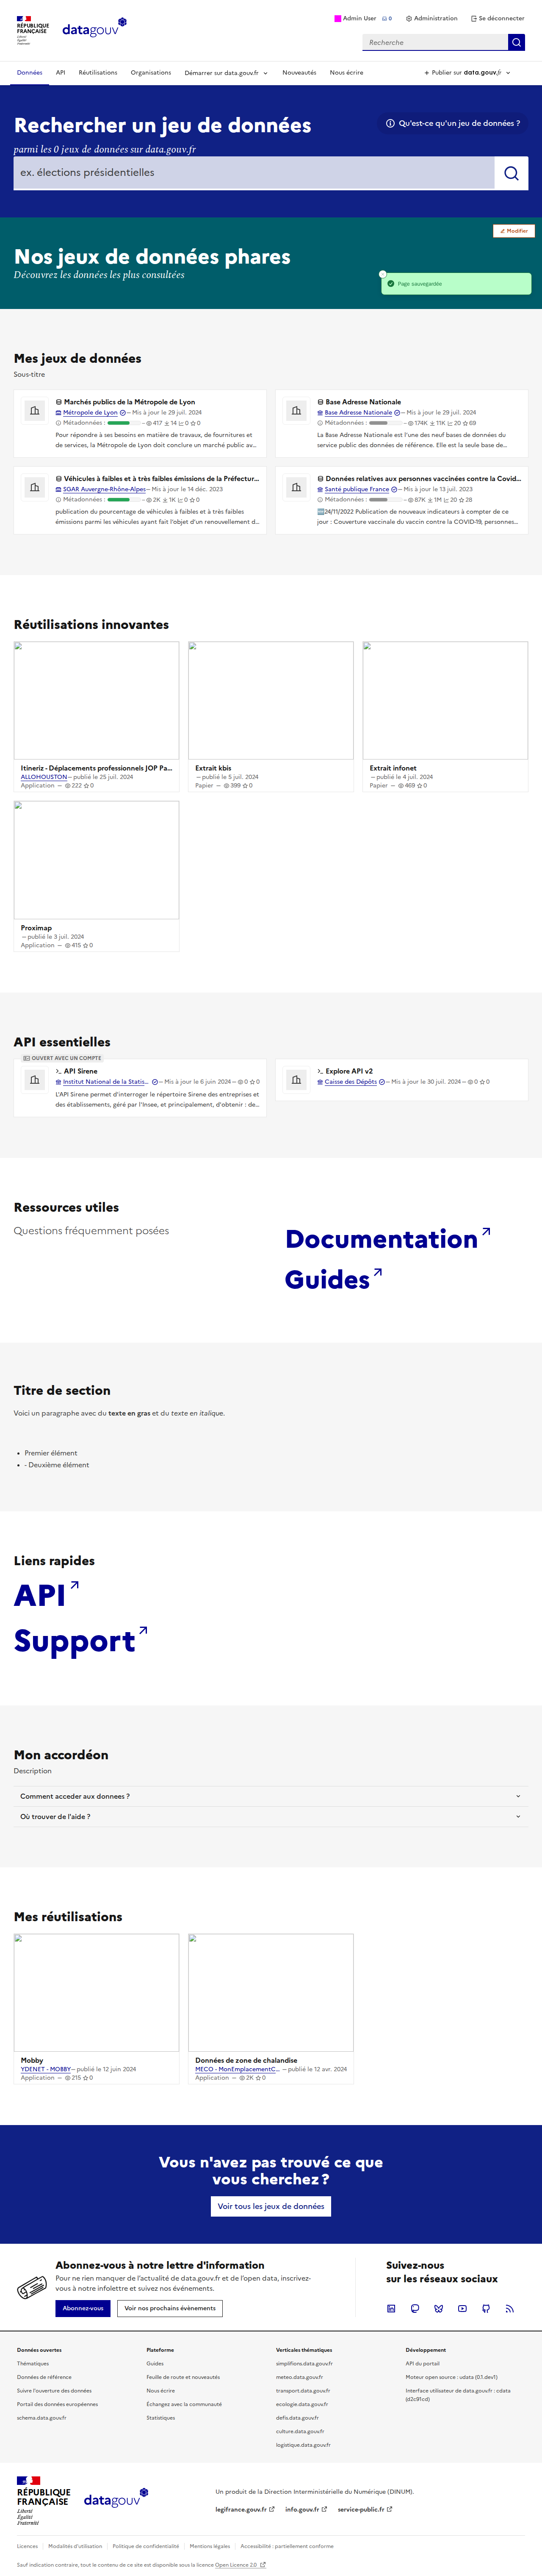
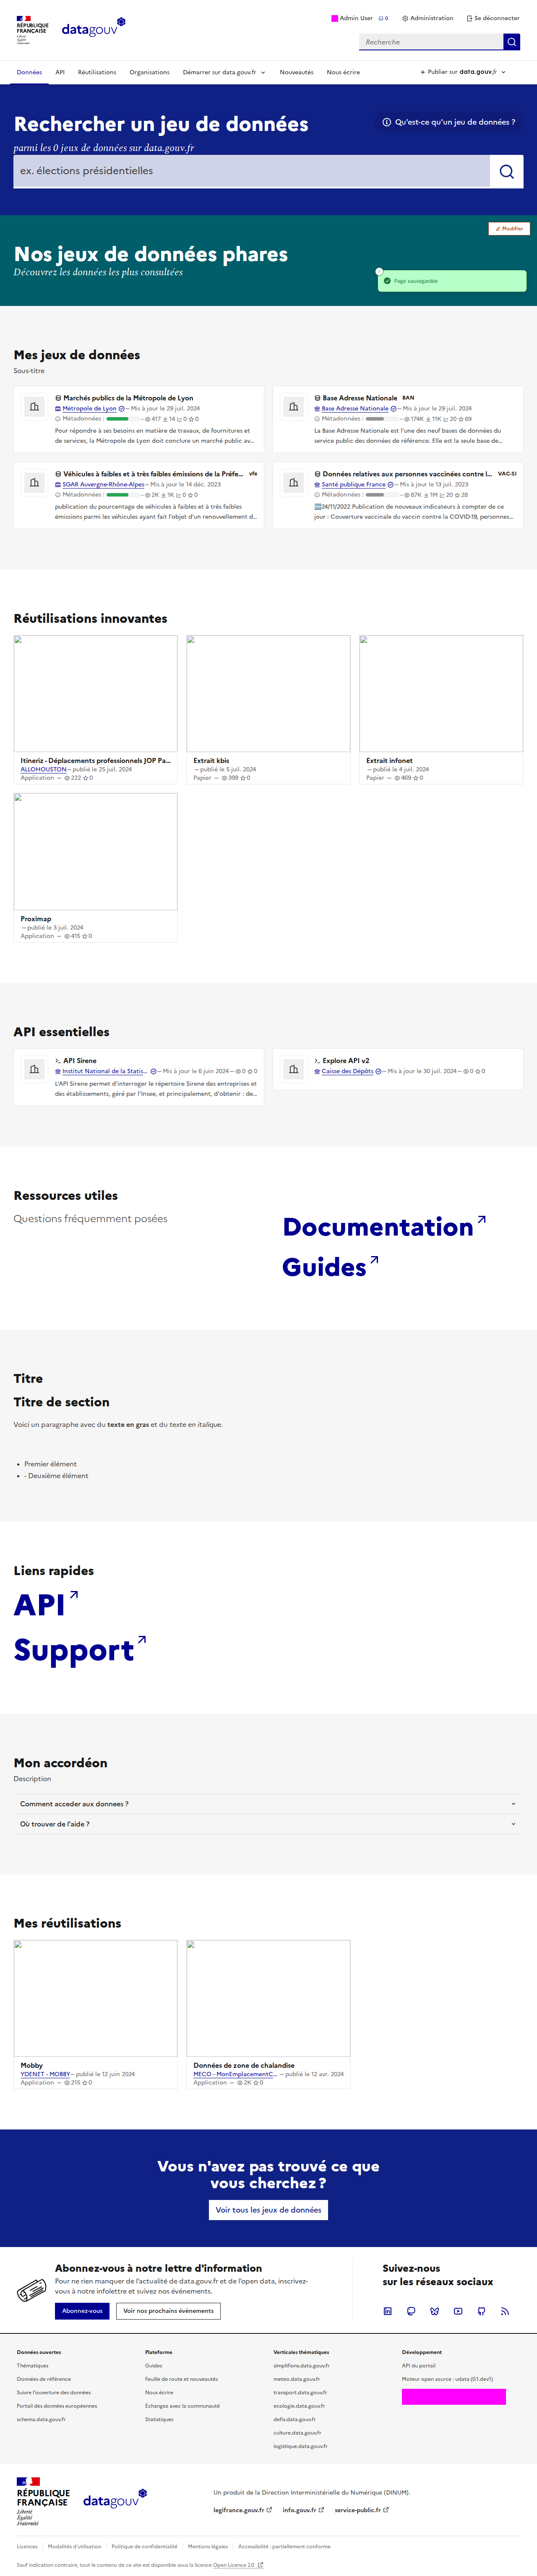
fix: improve news with blocs design (#1147)
- **Blocs full-width** in news posts (`EditoBlocs` moved out of the
`container`): alternating backgrounds reach the edges, bloc toolbar sits
in the margin. Header, markdown/html body, and discussions stay in a
`container`.
- **Removed duplicate "Modifier" button**: `hide-edit-button` on
`EditoBlocs`, keeping the header one.
- **"Modifier le contenu"** now enters edit mode + scrolls to the blocs
(`editContent()` + `keepScroll: true` to avoid the global
scroll-to-top).
- **Markdown bloc title displayed**: `MarkdownBloc.vue` now goes through
`BlocWithTitleAndSubtitle` like the other blocs.
- **`pt-24`** on the blocs wrapper so the first band no longer hugs the
image.

Pull request: fix: improve news with blocs design
- **Blocs full-width** in news posts (`EditoBlocs` moved out of the `container`): alternating backgrounds reach the edges, bloc toolbar sits in the margin. Header, markdown/html body, and discussions stay in a `container`.
- **Removed duplicate "Modifier" button**: `hide-edit-button` on `EditoBlocs`, keeping the header one.
- **"Modifier le contenu"** now enters edit mode + scrolls to the blocs (`editContent()` + `keepScroll: true` to avoid the global scroll-to-top).
- **Markdown bloc title displayed**: `MarkdownBloc.vue` now goes through `BlocWithTitleAndSubtitle` like the other blocs.
- **`pt-24`** on the blocs wrapper so the first band no longer hugs the image.

diff --git a/pages/posts/[id].vue b/pages/posts/[id].vue
@@ -16,103 +16,121 @@
     <!-- Standard news mode -->
     <div
       v-else
-      class="container mb-24"
+      class="mb-24"
     >
-      <div class="flex items-center">
-        <Breadcrumb class="flex-1">
-          <BreadcrumbItem
-            to="/"
-          >
-            {{ $t('Accueil') }}
-          </BreadcrumbItem>
-          <BreadcrumbItem to="/posts">
-            {{ $t('Articles') }}
-          </BreadcrumbItem>
-          <BreadcrumbItem v-if="post">
-            {{ post.name }}
-          </BreadcrumbItem>
-        </Breadcrumb>
+      <div class="container">
+        <div class="flex items-center">
+          <Breadcrumb class="flex-1">
+            <BreadcrumbItem
+              to="/"
+            >
+              {{ $t('Accueil') }}
+            </BreadcrumbItem>
+            <BreadcrumbItem to="/posts">
+              {{ $t('Articles') }}
+            </BreadcrumbItem>
+            <BreadcrumbItem v-if="post">
+              {{ post.name }}
+            </BreadcrumbItem>
+          </Breadcrumb>
 
-        <div
-          v-if="isMeAdmin()"
-          class="flex gap-2"
-        >
-          <EditButton
-            :id="post.id"
-            type="posts"
-          />
-          <BrandedButton
-            v-if="post.body_type === 'blocs'"
-            color="warning"
-            :href="`/posts/${post.slug}?edit=true`"
-            :icon="RiEdit2Line"
-            size="xs"
+          <div
+            v-if="isMeAdmin()"
+            class="flex gap-2"
           >
-            {{ $t('Modifier le contenu') }}
-          </BrandedButton>
+            <EditButton
+              :id="post.id"
+              type="posts"
+            />
+            <BrandedButton
+              v-if="post.body_type === 'blocs'"
+              color="warning"
+              :icon="RiEdit2Line"
+              size="xs"
+              @click="editContent"
+            >
+              {{ $t('Modifier le contenu') }}
+            </BrandedButton>
+          </div>
+        </div>
+        <div class="max-w-4xl">
+          <h1 class="text-4.5xl font-extrabold text-gray-title mb-0">
+            {{ post.name }}
+          </h1>
+          <template v-if="post.published || isMeAdmin()">
+            <p
+              v-if="post.published"
+              class="text-xs mt-2 mb-0"
+            >
+              {{ $t('Publié le {date}', { date: formatDate(post.published) }) }}
+            </p>
+            <p
+              v-else
+              class="text-xs mb-0"
+            >
+              {{ $t('Pas encore publié') }}
+            </p>
+            <p class="mt-4 mb-6">
+              {{ post.headline }}
+            </p>
+            <img
+              v-if="post.image"
+              :src="post.image"
+              class="w-full h-auto mb-2"
+            >
+          </template>
+          <template v-else>
+            {{ $t(`Cet article n'est pas encore publié`) }}
+          </template>
         </div>
       </div>
-      <div class="max-w-4xl">
-        <h1 class="text-4.5xl font-extrabold text-gray-title mb-0">
-          {{ post.name }}
-        </h1>
-        <template v-if="post.published || isMeAdmin()">
-          <p
-            v-if="post.published"
-            class="text-xs mt-2 mb-0"
-          >
-            {{ $t('Publié le {date}', { date: formatDate(post.published) }) }}
-          </p>
-          <p
-            v-else
-            class="text-xs mb-0"
-          >
-            {{ $t('Pas encore publié') }}
-          </p>
-          <p class="mt-4 mb-6">
-            {{ post.headline }}
-          </p>
-          <img
-            v-if="post.image"
-            :src="post.image"
-            class="w-full h-auto mb-2"
-          >
-        </template>
-        <template v-else>
-          {{ $t(`Cet article n'est pas encore publié`) }}
-        </template>
-      </div>
       <template v-if="post.published || isMeAdmin()">
-        <template v-if="post.body_type === 'blocs'">
+        <!-- Blocs render full-width so the striped backgrounds reach the screen edges
+             and the bloc toolbar sits in the side margins instead of over the content.
+             pt-24 keeps the first striped band from hugging the header image, matching
+             the vertical rhythm between consecutive blocs. -->
+        <div
+          v-if="post.body_type === 'blocs'"
+          ref="blocsSection"
+          class="pt-24"
+        >
           <EditoBlocs
             :blocs="post.blocs ?? []"
             editable
+            hide-edit-button
             :on-save="saveBlocs"
           />
-        </template>
+        </div>
         <div
           v-else-if="post.body_type === 'markdown'"
-          class="max-w-4xl"
+          class="container"
         >
           <MarkdownViewer
             :content="post.content"
             :min-heading="2"
             size="md"
+            class="max-w-4xl"
           />
         </div>
         <div
           v-else
-          class="max-w-4xl"
-          :class="markdownClasses"
-          v-html="post.content"
-        />
+          class="container"
+        >
+          <div
+            class="max-w-4xl"
+            :class="markdownClasses"
+            v-html="post.content"
+          />
+        </div>
 
-        <DiscussionsList
-          v-if="config.public.allowDiscussionsInPosts"
-          class="mt-16 max-w-4xl"
-          type="Post"
-          :subject="post"
-        />
+        <div class="container">
+          <DiscussionsList
+            v-if="config.public.allowDiscussionsInPosts"
+            class="mt-16 max-w-4xl"
+            type="Post"
+            :subject="post"
+          />
+        </div>
       </template>
     </div>
   </LoadingBlock>
@@ -127,10 +145,27 @@ import EditoBlocs from '~/components/Pages/EditoBlocs.vue'
 import type { PageBloc } from '~/types/pages'
 import type { Post } from '~/types/posts'
 
+// Keep the scroll position when toggling the `edit` query, otherwise the global
+// scrollBehavior resets to the top and cancels the scroll-to-blocs below.
+definePageMeta({
+  keepScroll: true,
+})
+
 const config = useRuntimeConfig()
 const siteConfig = useSiteConfig()
 const route = useRoute()
+const router = useRouter()
 const { formatDate } = useFormatDate()
+
+const blocsSection = ref<HTMLElement | null>(null)
+
+// Enter edit mode and scroll to the blocs, which start below the article image:
+// with a tall image the user would otherwise see no visible change on click.
+async function editContent() {
+  await router.push({ query: { ...route.query, edit: 'true' } })
+  await nextTick()
+  blocsSection.value?.scrollIntoView({ behavior: 'smooth', block: 'start' })
+}
 
 const url = computed(() => `/api/1/posts/${route.params.id}/`)
 const { data: post, status, refresh: refreshPost } = await useAPI<Post>(url, { redirectOn404: true, lazy: true })

diff --git a/components/Pages/MarkdownBloc.vue b/components/Pages/MarkdownBloc.vue
@@ -1,31 +1,37 @@
 <template>
-  <div
-    v-if="edit"
-    class="bg-white border rounded-lg overflow-hidden"
+  <BlocWithTitleAndSubtitle
+    v-model="bloc"
+    :edit
   >
-    <MarkdownEditor
-      :id="`markdown-bloc-${bloc.id}`"
-      :heading-levels="3"
-      :min-heading="2"
-      :value="bloc.content"
-      @change="bloc.content = $event"
-    />
-  </div>
-  <div
-    v-else
-    class="max-w-4xl"
-  >
-    <MarkdownViewer
-      class="prose-h2:text-3xl prose-h2:text-gray-title prose-h3:text-2xl prose-h3:text-gray-title"
-      :content="bloc.content"
-      :min-heading="2"
-      size="md"
-    />
-  </div>
+    <div
+      v-if="edit"
+      class="bg-white border rounded-lg overflow-hidden"
+    >
+      <MarkdownEditor
+        :id="`markdown-bloc-${bloc.id}`"
+        :heading-levels="3"
+        :min-heading="2"
+        :value="bloc.content"
+        @change="bloc.content = $event"
+      />
+    </div>
+    <div
+      v-else
+      class="max-w-4xl"
+    >
+      <MarkdownViewer
+        class="prose-h2:text-3xl prose-h2:text-gray-title prose-h3:text-2xl prose-h3:text-gray-title"
+        :content="bloc.content"
+        :min-heading="2"
+        size="md"
+      />
+    </div>
+  </BlocWithTitleAndSubtitle>
 </template>
 
 <script setup lang="ts">
 import { MarkdownViewer } from '@datagouv/components-next'
+import BlocWithTitleAndSubtitle from './BlocWithTitleAndSubtitle.vue'
 import MarkdownEditor from '~/components/MarkdownEditor/MarkdownEditor.vue'
 import type { MarkdownBloc } from '~/types/pages'
 